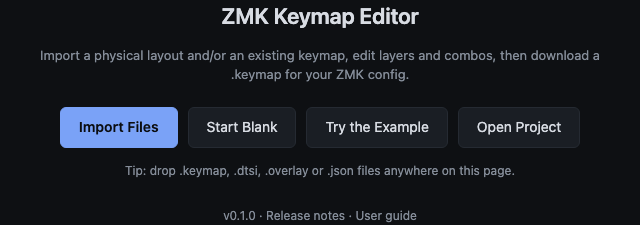
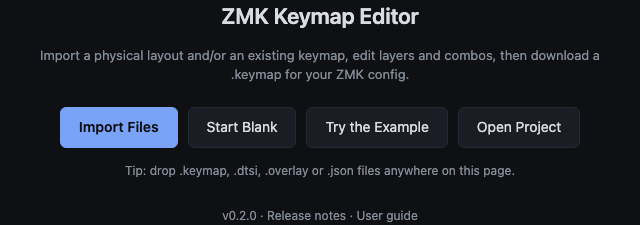
Release v0.2.0
Bumps the version to 0.2.0 in package.json, package-lock.json and
src/data/project.js, and turns [Unreleased] into the dated 0.2.0 section.

Minor, not major: this release adds features, and every file saved or
exported by 0.1.0 still opens and works as before. The saved-data format
moved to 3 (#64), which only makes older apps refuse newer files.

Changelog entries written before #71 and #72 now use the labels users
see (Open Project, Import Selected, …), and the repository-import
entries are grouped. The guide screenshots that show the version were
regenerated.

Changed region(s): [[0.3438, 0.9333, 0.6562, 0.9956]]

diff --git a/src/data/project.js b/src/data/project.js
@@ -4,7 +4,7 @@ export const ISSUES_URL = `${REPO_URL}/issues/new`;
 export const GUIDE_URL = `${REPO_URL}/blob/main/docs/guide/README.md`;
 
 // The released version (SemVer), kept equal to package.json's (a unit test checks).
-export const VERSION = '0.1.0';
+export const VERSION = '0.2.0';
 // The commit the deployed site was built from; scripts/build-site.mjs fills it in, '' in development.
 export const BUILD = '';
 

diff --git a/CHANGELOG.md b/CHANGELOG.md
@@ -6,6 +6,8 @@ merged pull request.
 
 ## [Unreleased]
 
+## [0.2.0] - 2026-11-01
+
 ### Added
 
 - Scroll the mouse wheel over a focused number field to change it: by 10 for millisecond settings
@@ -16,25 +18,25 @@ merged pull request.
 - New warnings make the warning button pulse once, so they're hard to miss. **Clear Warnings** hides
   the current ones until something new comes up, and "N hidden" brings them back.
 - A ✕ inside the keycode filter clears it (Esc does too), in every browser.
-- **Open project** on the welcome screen, next to Import, Start blank and Try the example.
+- **Open Project** on the welcome screen, next to Import Files, Start Blank and Try the Example.
 - A [user guide](docs/guide/README.md) with step-by-step instructions, screenshots and a shortcuts cheat
   sheet, linked from the welcome screen.
 
 ### Changed
 
-- Importing from a repository that holds several keyboards folds the list by keyboard. Only the keyboard
-  whose keymap was chosen is open and ticked, instead of ticking likely layouts from every keyboard.
+- The Import dialog lists the files it accepts in two boxes (physical layouts; keymaps and saved
+  projects). Its main button is now **Load**: it imports pasted text or a file link, or lists a
+  repository's files, which you then import with **Import Selected**.
 - Importing from a GitHub repository lists only its keymaps and likely layout files. **Show all files**
   reveals the rest, and **Deselect All** unticks everything.
+- Importing from a repository that holds several keyboards folds the list by keyboard. Only the keyboard
+  whose keymap was chosen is open and ticked, instead of ticking likely layouts from every keyboard.
+- Long file paths in the GitHub repository list are shortened in the middle, so the file name stays
+  visible, and hovering shows the whole path.
 - Every dialog has a ✕ in its corner and closes when you click outside it (like Cancel), just like the
   layer settings popover.
 - The layout picker in the status bar is labelled **Physical Layouts:**.
-- Long file paths in the GitHub repository list are shortened in the middle, so the file name stays
-  visible, and hovering shows the whole path.
 - The Combos list shows each combo's key positions as small keycaps joined by "+" (pressed together).
-- The Import dialog lists the files it accepts in two boxes (physical layouts; keymaps and saved
-  projects). Its main button is now **Load**: it imports pasted text or a file link, or lists a
-  repository's files, which you then import with **Import selected**.
 - Button labels use Title Case (e.g. **Try the Example**, **Close Keymap**, **+ Hold-Tap**).
 
 ### Fixed
@@ -71,5 +73,6 @@ First public release, at <https://ulkden.github.io/zmk-yakme/>.
 - Works in Chromium, Firefox and Safari, by mouse and keyboard. Nothing leaves your browser except
   the GitHub requests you ask for.
 
-[Unreleased]: https://github.com/ulkden/zmk-yakme/compare/v0.1.0...HEAD
+[Unreleased]: https://github.com/ulkden/zmk-yakme/compare/v0.2.0...HEAD
+[0.2.0]: https://github.com/ulkden/zmk-yakme/releases/tag/v0.2.0
 [0.1.0]: https://github.com/ulkden/zmk-yakme/releases/tag/v0.1.0
